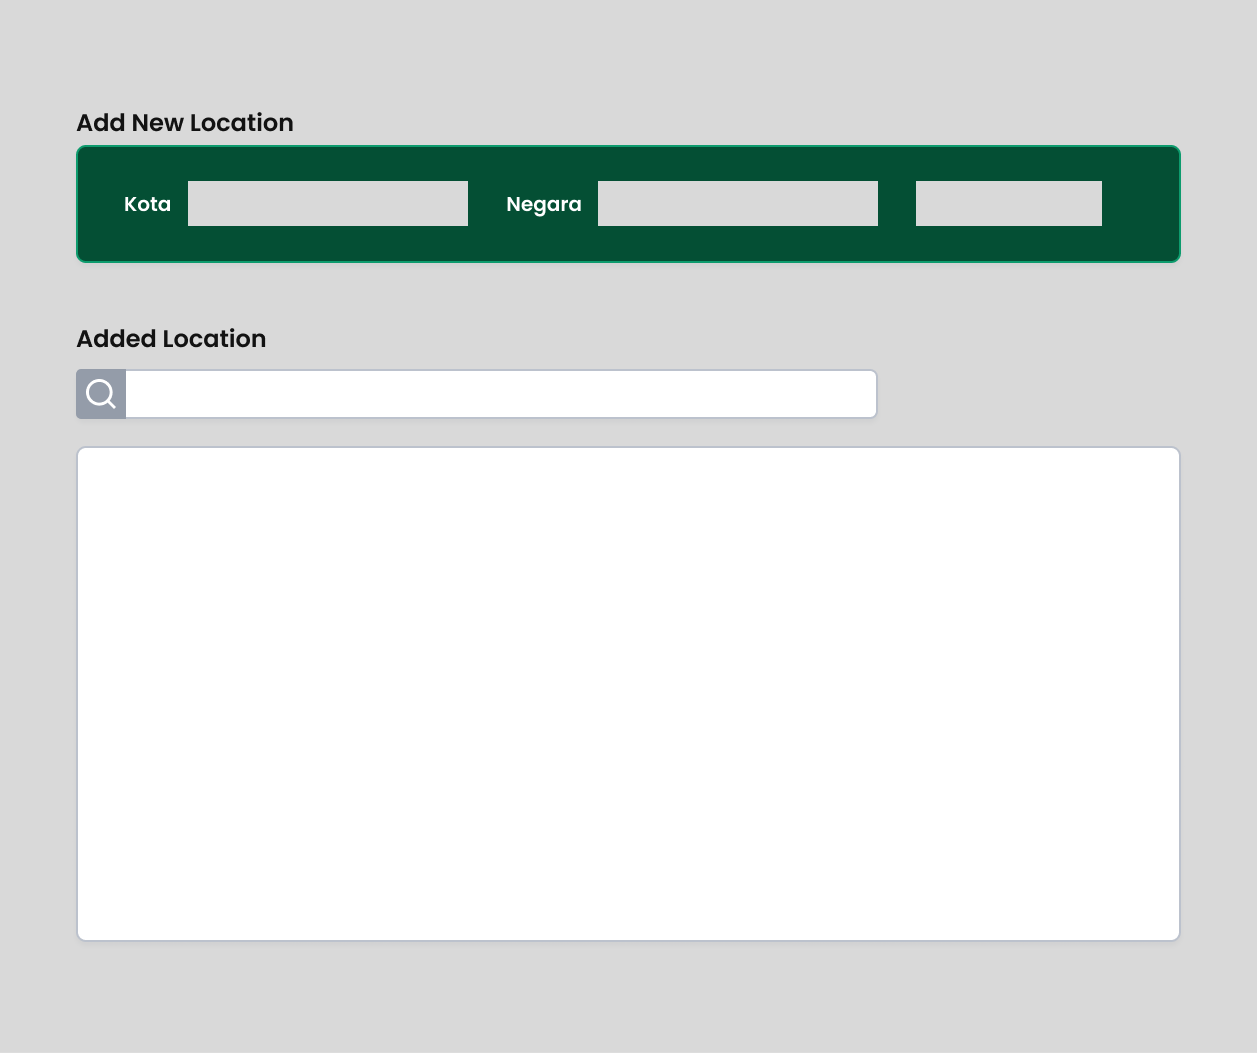
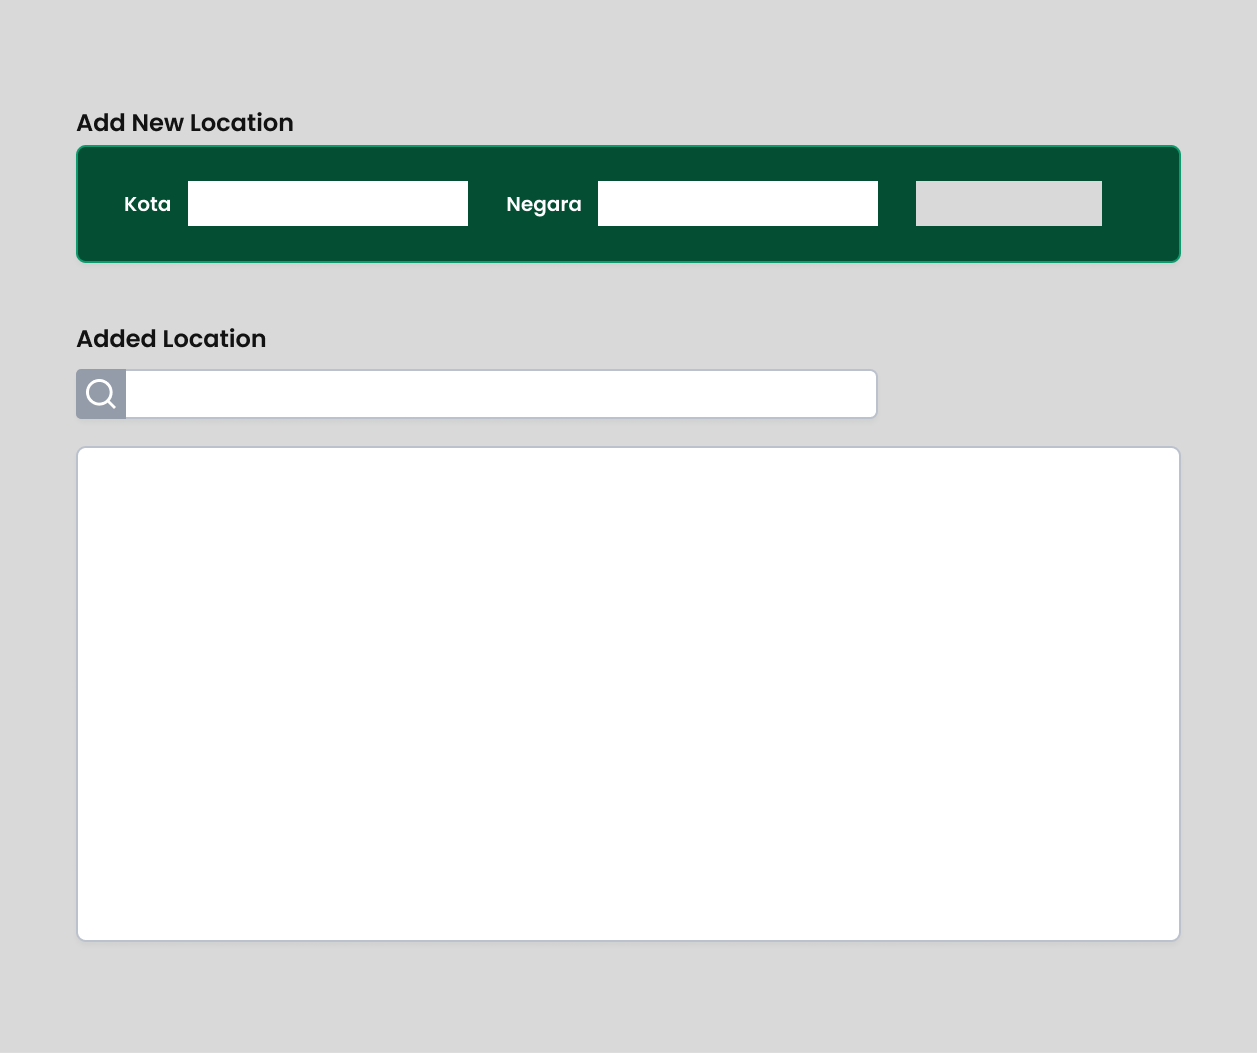
feat: tambah lokasi di dashboard

Changed region(s): [[0.4654, 0.1519, 0.7136, 0.2127], [0.1241, 0.1519, 0.3723, 0.2127]]

diff --git a/Petanee/Petanee/FormDashboard.Designer.cs b/Petanee/Petanee/FormDashboard.Designer.cs
@@ -30,7 +30,6 @@ namespace Petanee
         private void InitializeComponent()
         {
             this.panel1 = new System.Windows.Forms.Panel();
-            this.tbLocation = new System.Windows.Forms.TextBox();
             this.btnSubmit = new System.Windows.Forms.Button();
             this.dataGridView1 = new System.Windows.Forms.DataGridView();
             this.textBox1 = new System.Windows.Forms.TextBox();
@@ -48,30 +47,20 @@ namespace Petanee
             this.panel1.TabIndex = 0;
             this.panel1.Click += new System.EventHandler(this.panel1_Click);
             // 
-            // tbLocation
-            // 
-            this.tbLocation.BorderStyle = System.Windows.Forms.BorderStyle.None;
-            this.tbLocation.Font = new System.Drawing.Font("Microsoft Sans Serif", 11.25F, System.Drawing.FontStyle.Regular, System.Drawing.GraphicsUnit.Point, ((byte)(0)));
-            this.tbLocation.Location = new System.Drawing.Point(643, 112);
-            this.tbLocation.Margin = new System.Windows.Forms.Padding(5);
-            this.tbLocation.Multiline = true;
-            this.tbLocation.Name = "tbLocation";
-            this.tbLocation.Size = new System.Drawing.Size(149, 23);
-            this.tbLocation.TabIndex = 0;
-            // 
             // btnSubmit
             // 
-            this.btnSubmit.BackColor = System.Drawing.Color.FromArgb(((int)(((byte)(4)))), ((int)(((byte)(79)))), ((int)(((byte)(52)))));
+            this.btnSubmit.BackColor = System.Drawing.Color.FromArgb(((int)(((byte)(13)))), ((int)(((byte)(155)))), ((int)(((byte)(109)))));
             this.btnSubmit.FlatAppearance.BorderSize = 0;
             this.btnSubmit.FlatStyle = System.Windows.Forms.FlatStyle.Flat;
             this.btnSubmit.Font = new System.Drawing.Font("Microsoft Sans Serif", 9F, System.Drawing.FontStyle.Bold, System.Drawing.GraphicsUnit.Point, ((byte)(0)));
             this.btnSubmit.ForeColor = System.Drawing.Color.White;
-            this.btnSubmit.Location = new System.Drawing.Point(587, 176);
+            this.btnSubmit.Location = new System.Drawing.Point(648, 117);
             this.btnSubmit.Name = "btnSubmit";
-            this.btnSubmit.Size = new System.Drawing.Size(234, 37);
+            this.btnSubmit.Size = new System.Drawing.Size(124, 30);
             this.btnSubmit.TabIndex = 1;
             this.btnSubmit.Text = "Submit";
             this.btnSubmit.UseVisualStyleBackColor = false;
+            this.btnSubmit.Click += new System.EventHandler(this.btnSubmit_Click);
             // 
             // dataGridView1
             // 
@@ -80,44 +69,43 @@ namespace Petanee
             this.dataGridView1.ColumnHeadersHeightSizeMode = System.Windows.Forms.DataGridViewColumnHeadersHeightSizeMode.AutoSize;
             this.dataGridView1.Location = new System.Drawing.Point(112, 287);
             this.dataGridView1.Name = "dataGridView1";
-            this.dataGridView1.Size = new System.Drawing.Size(705, 212);
+            this.dataGridView1.Size = new System.Drawing.Size(705, 317);
             this.dataGridView1.TabIndex = 2;
             // 
             // textBox1
             // 
             this.textBox1.BorderStyle = System.Windows.Forms.BorderStyle.None;
-            this.textBox1.Font = new System.Drawing.Font("Microsoft Sans Serif", 11.25F, System.Drawing.FontStyle.Regular, System.Drawing.GraphicsUnit.Point, ((byte)(0)));
-            this.textBox1.Location = new System.Drawing.Point(179, 112);
+            this.textBox1.Font = new System.Drawing.Font("Microsoft Sans Serif", 12F, System.Drawing.FontStyle.Regular, System.Drawing.GraphicsUnit.Point, ((byte)(0)));
+            this.textBox1.Location = new System.Drawing.Point(182, 121);
             this.textBox1.Margin = new System.Windows.Forms.Padding(5);
             this.textBox1.Multiline = true;
             this.textBox1.Name = "textBox1";
-            this.textBox1.Size = new System.Drawing.Size(149, 23);
-            this.textBox1.TabIndex = 3;
+            this.textBox1.Size = new System.Drawing.Size(176, 21);
+            this.textBox1.TabIndex = 10;
             // 
             // textBox2
             // 
             this.textBox2.BorderStyle = System.Windows.Forms.BorderStyle.None;
-            this.textBox2.Font = new System.Drawing.Font("Microsoft Sans Serif", 11.25F, System.Drawing.FontStyle.Regular, System.Drawing.GraphicsUnit.Point, ((byte)(0)));
-            this.textBox2.Location = new System.Drawing.Point(414, 112);
+            this.textBox2.Font = new System.Drawing.Font("Microsoft Sans Serif", 12F, System.Drawing.FontStyle.Regular, System.Drawing.GraphicsUnit.Point, ((byte)(0)));
+            this.textBox2.Location = new System.Drawing.Point(448, 121);
             this.textBox2.Margin = new System.Windows.Forms.Padding(5);
             this.textBox2.Multiline = true;
             this.textBox2.Name = "textBox2";
-            this.textBox2.Size = new System.Drawing.Size(149, 23);
-            this.textBox2.TabIndex = 4;
+            this.textBox2.Size = new System.Drawing.Size(175, 21);
+            this.textBox2.TabIndex = 10;
             // 
             // FormDashboard
             // 
             this.AutoScaleDimensions = new System.Drawing.SizeF(6F, 13F);
             this.AutoScaleMode = System.Windows.Forms.AutoScaleMode.Font;
             this.BackColor = System.Drawing.Color.FromArgb(((int)(((byte)(217)))), ((int)(((byte)(217)))), ((int)(((byte)(217)))));
-            this.BackgroundImage = global::Petanee.Properties.Resources.form_dashboard;
+            this.BackgroundImage = global::Petanee.Properties.Resources.form_dashboard1;
             this.BackgroundImageLayout = System.Windows.Forms.ImageLayout.Zoom;
             this.ClientSize = new System.Drawing.Size(930, 681);
             this.Controls.Add(this.textBox2);
             this.Controls.Add(this.textBox1);
             this.Controls.Add(this.dataGridView1);
             this.Controls.Add(this.btnSubmit);
-            this.Controls.Add(this.tbLocation);
             this.Controls.Add(this.panel1);
             this.DoubleBuffered = true;
             this.FormBorderStyle = System.Windows.Forms.FormBorderStyle.None;
@@ -132,7 +120,6 @@ namespace Petanee
         #endregion
 
         private System.Windows.Forms.Panel panel1;
-        private System.Windows.Forms.TextBox tbLocation;
         private System.Windows.Forms.Button btnSubmit;
         private System.Windows.Forms.DataGridView dataGridView1;
         private System.Windows.Forms.TextBox textBox1;

diff --git a/Petanee/Petanee/Location.cs b/Petanee/Petanee/Location.cs
@@ -1,0 +1,49 @@
+using Npgsql;
+using System;
+using System.Collections.Generic;
+using System.Linq;
+using System.Text;
+using System.Threading.Tasks;
+using System.Windows;
+
+namespace Petanee
+{
+    internal class Location
+    {
+        public NpgsqlConnection conn;
+        string connstring = "Host=localhost;Port=5432;Username=postgres;Password=ananta;Database=Petanee";
+        public static NpgsqlCommand cmd;
+        public string sql = null;
+
+        private string _city;
+        private string _country;
+        private string _loginusername;
+
+        public void tambahLokasi(string City, string Country, string loginusername)
+        {
+            try
+            {
+                conn = new NpgsqlConnection(connstring);
+                conn.Open();
+                sql = @"select * from insertlocation(:_city,:_country,:_owner)";
+
+                _city = City; ;
+                _country = Country;
+                _loginusername = loginusername;
+
+                cmd = new NpgsqlCommand(sql, conn);
+                cmd.Parameters.AddWithValue("_city", _city);
+                cmd.Parameters.AddWithValue("_country", _country);
+                cmd.Parameters.AddWithValue("_owner", _loginusername);
+                if ((int)cmd.ExecuteScalar() == 1)
+                {
+                    MessageBox.Show("Lokasi berhasil ditambahkan");
+                }
+            }
+            catch (Exception ex)
+            {
+                MessageBox.Show(ex.Message);
+            }
+        }
+    }
+}

diff --git a/Petanee/Petanee/FormDashboard.cs b/Petanee/Petanee/FormDashboard.cs
@@ -1,4 +1,5 @@
-using System;
+using Npgsql;
+using System;
 using System.Collections.Generic;
 using System.ComponentModel;
 using System.Data;
@@ -7,14 +8,24 @@ using System.Linq;
 using System.Text;
 using System.Threading.Tasks;
 using System.Windows.Forms;
+using static System.Windows.Forms.VisualStyles.VisualStyleElement.StartPanel;
 
 namespace Petanee
 {
-    public partial class FormDashboard : Form
+    partial class FormDashboard : Form
     {
-        public FormDashboard()
+        public NpgsqlConnection conn;
+        string connstring = "Host=localhost;Port=5432;Username=postgres;Password=ananta;Database=Petanee";
+        public static NpgsqlCommand cmd;
+        public string sql = null;
+        public User Pengguna;
+
+        public FormDashboard(User pengguna)
         {
             InitializeComponent();
+
+            Pengguna = pengguna;
+            string username = Pengguna.Username;
         }
 
         private void panel1_Click(object sender, EventArgs e)
@@ -44,6 +55,12 @@ namespace Petanee
             Form howtouse = new FormUse();
             this.Hide();
             howtouse.Show();
+        }
+
+        private void btnSubmit_Click(object sender, EventArgs e)
+        {
+            Location lokasi = new Location();
+            lokasi.tambahLokasi(textBox1.Text, textBox2.Text, Pengguna.Username);
         }
     }
 }

diff --git a/Petanee/Petanee/FormParent.cs b/Petanee/Petanee/FormParent.cs
@@ -10,12 +10,17 @@ using System.Windows.Forms;
 
 namespace Petanee
 {
-    public partial class FormParent : Form
+    partial class FormParent : Form
     {
-        public FormParent()
+        public User Pengguna;
+        public FormParent(User pengguna)
         {
             InitializeComponent();
-            loadForm(new FormDashboard());
+
+            Pengguna = pengguna;
+            string username = Pengguna.Username;
+
+            loadForm(new FormDashboard(Pengguna));
             btnDashboard.BackColor = Color.FromArgb(3, 59, 39);
         }
 
@@ -35,7 +40,7 @@ namespace Petanee
         {
             btnHowToUse.BackColor = btnGetRecommend.BackColor = btnMyPlant.BackColor = Color.FromArgb(4, 79, 52);
             btnDashboard.BackColor = Color.FromArgb(3, 59, 39);
-            loadForm(new FormDashboard());
+            loadForm(new FormDashboard(Pengguna));
         }
 
         private void btnHowToUse_Click(object sender, EventArgs e)

diff --git a/Petanee/Petanee/FormGetRecommendation.cs b/Petanee/Petanee/FormGetRecommendation.cs
@@ -18,8 +18,10 @@ using System.Collections;
 
 namespace Petanee
 {
-    public partial class FormGetRecommendation : Form
+    partial class FormGetRecommendation : Form
     {
+        public User Pengguna;
+
         public string climate;
         public DataTable dt;
 
@@ -71,7 +73,7 @@ namespace Petanee
 
         private void panel2_Click(object sender, EventArgs e)
         {
-            Form dashboard = new FormDashboard();
+            Form dashboard = new FormDashboard(Pengguna);
             this.Hide();
             dashboard.Show();
         }

diff --git a/Petanee/Petanee/Weather.cs b/Petanee/Petanee/Weather.cs
@@ -1,13 +1,17 @@
-using System;
+using Npgsql;
+using System;
 using System.Collections.Generic;
 using System.Linq;
 using System.Text;
 using System.Threading.Tasks;
+using static System.Windows.Forms.VisualStyles.VisualStyleElement.StartPanel;
+using System.Windows;
 
 namespace Petanee
 {
     internal class Weather
     {
+        
         public class coord
         {
             public double lon { get; set; }
@@ -17,5 +21,6 @@ namespace Petanee
         {
             public coord coord { get; set; }
         }
+        
     }
 }

diff --git a/Petanee/Petanee/FormUse.cs b/Petanee/Petanee/FormUse.cs
@@ -10,8 +10,9 @@ using System.Windows.Forms;
 
 namespace Petanee
 {
-    public partial class FormUse : Form
+    partial class FormUse : Form
     {
+        public User Pengguna;
         public FormUse()
         {
             InitializeComponent();
@@ -26,7 +27,7 @@ namespace Petanee
 
         private void panel3_Click(object sender, EventArgs e)
         {
-            Form dashboard = new FormDashboard();
+            Form dashboard = new FormDashboard(Pengguna);
             this.Hide();
             dashboard.Show();
         }

diff --git a/Petanee/Petanee/FormLogin.cs b/Petanee/Petanee/FormLogin.cs
@@ -31,7 +31,7 @@ namespace Petanee
                 user.Login(tbUsername.Text, tbPassword.Text);
                 if(user.Security == 1)
                 {
-                    Form dashboard = new FormParent();
+                    Form dashboard = new FormParent(user);
                     this.Hide();
                     dashboard.Show();
                 }

diff --git a/Petanee/Petanee/FormHowToUse.Designer.cs b/Petanee/Petanee/FormHowToUse.Designer.cs
@@ -42,6 +42,7 @@
             this.FormBorderStyle = System.Windows.Forms.FormBorderStyle.None;
             this.Name = "FormHowToUse";
             this.Text = "FormHowToUse";
+            this.Load += new System.EventHandler(this.FormHowToUse_Load);
             this.ResumeLayout(false);
 
         }

diff --git a/Petanee/Petanee/FormHowToUse.cs b/Petanee/Petanee/FormHowToUse.cs
@@ -16,5 +16,10 @@ namespace Petanee
         {
             InitializeComponent();
         }
+
+        private void FormHowToUse_Load(object sender, EventArgs e)
+        {
+
+        }
     }
 }
